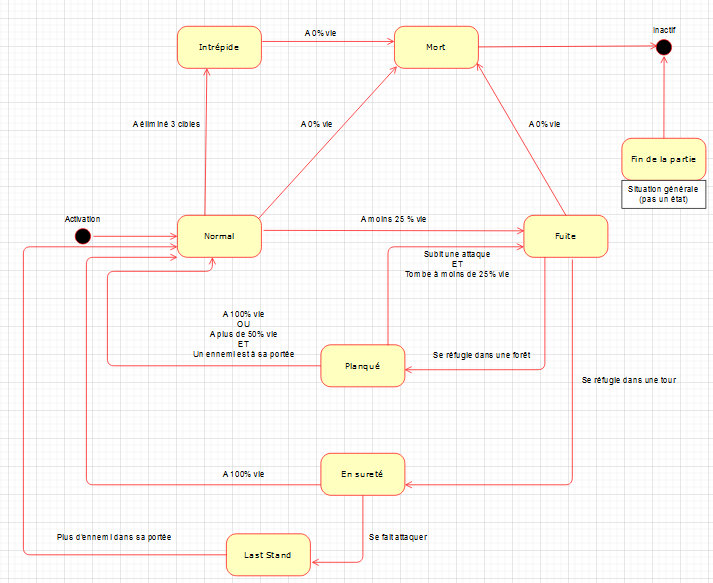
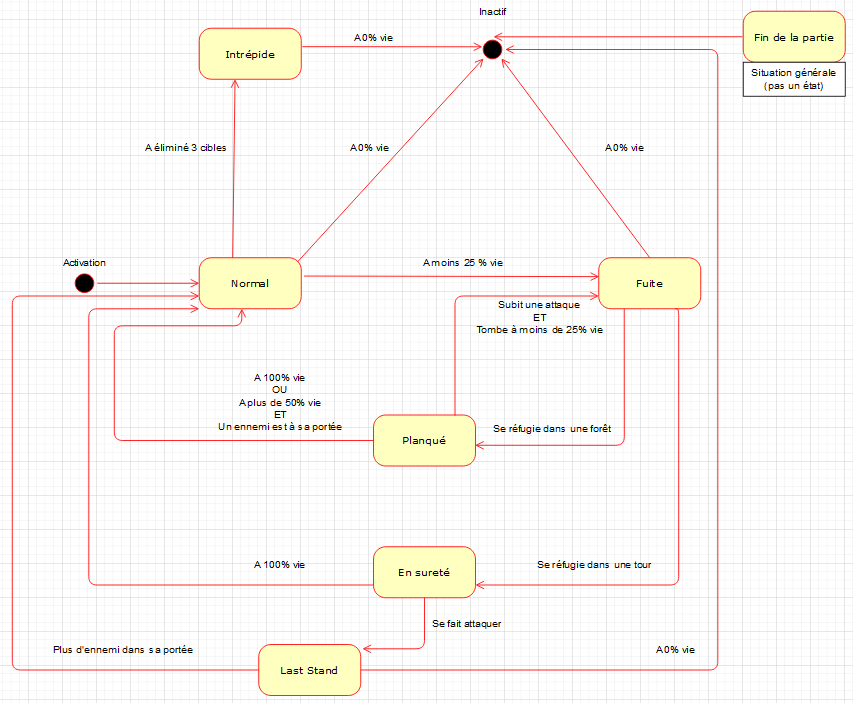
Refactor States

diff --git a/TP2/Assets/Scripts/WizardStates/NormalState.cs b/TP2/Assets/Scripts/WizardStates/NormalState.cs
@@ -11,7 +11,7 @@ public class NormalState : WizardState
 
     private const float ATTACK_SPEED = 0.5f; // 2 tirs / seconde
     private const float MOVEMENT_SPEED = 3.0f;
-    private const float REGENERATION_PER_SECONDS = 1.0f;
+    private const int REGENERATION_PER_SECONDS = 1;
     private const float MIN_TARGET_RADIUS = 1.5f;
     private const float MAX_TARGET_RADIUS = 3.0f;
     private const float MIN_DAMAGE = 3.0f;
@@ -20,7 +20,7 @@ public class NormalState : WizardState
     private const int INTREPID_STATE_KILL_THRESHOLD = 3;
     private const float ESCAPE_STATE_HEALTH_THRESHOLD = 0.25f; // 25% de vie
 
-    private void Awake()
+    private new void Awake()
     {
         base.Awake();
         SetSpeed(MOVEMENT_SPEED);
@@ -67,23 +67,28 @@ public class NormalState : WizardState
         }
     }
 
+    /// <summary>
+    /// Changements possbiles : Intrepide, Fuite, Mort
+    /// </summary>
     public override void ManageStateChange()
     {
         if (wizardManager.GetNumberbOfKills() >= INTREPID_STATE_KILL_THRESHOLD)
         {
             wizardManager.ChangeWizardState(WizardManager.WizardStateToSwitch.INTREPID);
+        
         } 
-        else if (wizardManager.GetCurrentHealthPoints() / wizardManager.GetMaxHealthPoints() <= ESCAPE_STATE_HEALTH_THRESHOLD)
+        else if (((float)wizardManager.GetCurrentHealthPoints() / (float)wizardManager.GetMaxHealthPoints()) <= ESCAPE_STATE_HEALTH_THRESHOLD)
         {
             wizardManager.ChangeWizardState(WizardManager.WizardStateToSwitch.ESCAPE);
+        
         } 
-        else if(wizardManager.GetCurrentHealthPoints() <= 0)
+        else if(wizardManager.GetLifePercentage() <= 0.0f)
         {
-            wizardManager.ChangeWizardState(WizardManager.WizardStateToSwitch.DEAD);
+            wizardManager.ChangeWizardState(WizardManager.WizardStateToSwitch.INACTIVE);
         }
     }
 
-    private void OnTriggerEnter2D(Collider2D collision)
+    private new void OnTriggerEnter2D(Collider2D collision)
     {
         base.OnTriggerEnter2D(collision);
         if(collision.gameObject.CompareTag(wizardManager.GetOpponentWizardTag()) || collision.gameObject.CompareTag(wizardManager.GetOpponentTowerTag()))
@@ -93,7 +98,7 @@ public class NormalState : WizardState
         }
     }
 
-    private void OnTriggerExit2D(Collider2D collision)
+    private new void OnTriggerExit2D(Collider2D collision)
     {
         base.OnTriggerExit2D(collision);
         if (collision.gameObject.CompareTag(wizardManager.GetOpponentWizardTag()))

diff --git a/TP2/Assets/Scripts/WizardStates/HiddenState.cs b/TP2/Assets/Scripts/WizardStates/HiddenState.cs
@@ -4,28 +4,16 @@ using UnityEngine;
 
 public class HiddenState : WizardState
 {
-    private const float REGENERATION_PER_SECONDS = 3.0f;
-
+    private const int REGENERATION_PER_SECONDS = 3;
     private const float NORMAL_STATE_LIFE_THRESHOLD = 0.5f;
     private const float ESCAPE_STATE_LIFE_THRESHOLD = 0.25f;
     
     bool gotAttacked = false;
 
-    private void Awake()
+    private new void Awake()
     {
         base.Awake();
         SetRegenerationPerSeconds(REGENERATION_PER_SECONDS);
-    }
-    // Start is called before the first frame update
-    void Start()
-    {
-        
-    }
-
-    // Update is called once per frame
-    void Update()
-    {
-        
     }
 
     public override void Shoot()
@@ -36,6 +24,9 @@ public class HiddenState : WizardState
     {
     }
 
+    /// <summary>
+    /// Changement possibles : Normal, Fuite
+    /// </summary>
     public override void ManageStateChange()
     {
         float wizardLifePercentage = wizardManager.GetLifePercentage();
@@ -47,14 +38,11 @@ public class HiddenState : WizardState
         {
             wizardManager.ChangeWizardState(WizardManager.WizardStateToSwitch.ESCAPE);
         }
-        else if (wizardManager.GetLifePercentage() <= 0.0f)
-        {
-            wizardManager.ChangeWizardState(WizardManager.WizardStateToSwitch.DEAD);
-        }
     }
 
-    private void OnCollisionEnter2D(Collision2D collision)
+    private new void OnTriggerEnter2D(Collider2D collision)
     {
+        base.OnTriggerEnter2D(collision);
         if (collision.gameObject.CompareTag(wizardManager.GetOpponentProjectileTag()))
         {
         }

diff --git a/TP2/Assets/Scripts/WizardStates/EscapeState.cs b/TP2/Assets/Scripts/WizardStates/EscapeState.cs
@@ -6,7 +6,7 @@ public class EscapeState : WizardState
 {
     private const float MOVEMENT_SPEED = 6.0f;
 
-    private const float REGENERATION_PER_SECONDS = 1.0f;
+    private const int REGENERATION_PER_SECONDS = 1;
 
     private bool inTower = false;
     private bool inForest = false;
@@ -17,13 +17,7 @@ public class EscapeState : WizardState
         SetSpeed(MOVEMENT_SPEED);
         SetRegenerationPerSeconds(REGENERATION_PER_SECONDS);
     }
-    // Start is called before the first frame update
-    void Start()
-    {
-        
-    }
 
-    // Update is called once per frame
     void Update()
     {
         UpdateCurrentTarget();
@@ -55,7 +49,7 @@ public class EscapeState : WizardState
         }
         else if (wizardManager.GetLifePercentage() <= 0.0f)
         {
-            wizardManager.ChangeWizardState(WizardManager.WizardStateToSwitch.DEAD);
+            wizardManager.ChangeWizardState(WizardManager.WizardStateToSwitch.INACTIVE);
         }
     }
 
@@ -71,7 +65,7 @@ public class EscapeState : WizardState
         }
     }
 
-    private void OnTriggerEnter2D(Collider2D collision)
+    private new void OnTriggerEnter2D(Collider2D collision)
     {
         if(collision.gameObject.CompareTag(Tags.FOREST))
         {
@@ -83,7 +77,7 @@ public class EscapeState : WizardState
         }
     }
 
-    private void OnTriggerExit2D(Collider2D collision)
+    private new void OnTriggerExit2D(Collider2D collision)
     {
         if (collision.gameObject.CompareTag(Tags.FOREST))
         {

diff --git a/TP2/Assets/Scripts/WizardStates/WizardState.cs b/TP2/Assets/Scripts/WizardStates/WizardState.cs
@@ -7,20 +7,33 @@ public abstract class WizardState : MonoBehaviour
     protected WizardManager wizardManager;
 
     protected float speed = 0;
-    protected float regenPerSeconds = 0;
+    protected int regenPerSeconds = 0;
     protected int enemyAroundCount = 0;
     protected float targetRadius = 1.5f;
+
+    private float regenTickRate = 1f;
+    private float timer = 0;
     
     protected void Awake()
     {
         wizardManager = GetComponent<WizardManager>();
     }
 
-    void Update() {}
+    void Update() 
+    {
+        if(timer >= regenTickRate)
+        {
+            timer = 0;
+            wizardManager.RegenHP(regenPerSeconds);
+        }
+
+        timer += Time.deltaTime;
+    }
 
     public abstract void Shoot();
     public abstract void Move();
     public abstract void ManageStateChange();
+
     public void MoveTo(GameObject target)
     {
         transform.position = Vector3.MoveTowards(transform.position, target.transform.position, speed * Time.deltaTime);
@@ -31,7 +44,7 @@ public abstract class WizardState : MonoBehaviour
         transform.up = target.transform.position - transform.position;
     }
 
-    public void SetRegenerationPerSeconds(float regen)
+    public void SetRegenerationPerSeconds(int regen)
     {
         regenPerSeconds = regen;
     }

diff --git a/TP2/Assets/Scripts/WizardStates/LastStandState.cs b/TP2/Assets/Scripts/WizardStates/LastStandState.cs
@@ -4,9 +4,9 @@ using UnityEngine;
 
 public class LastStandState : WizardState
 {
-    private const float REGENERATION_PER_SECONDS = 2.0f;
+    private const int REGENERATION_PER_SECONDS = 2;
 
-    private void Awake()
+    private new void Awake()
     {
         base.Awake();
         SetRegenerationPerSeconds(REGENERATION_PER_SECONDS);
@@ -40,7 +40,7 @@ public class LastStandState : WizardState
         }
         else if (wizardManager.GetLifePercentage() <= 0.0f)
         {
-            wizardManager.ChangeWizardState(WizardManager.WizardStateToSwitch.DEAD);
+            wizardManager.ChangeWizardState(WizardManager.WizardStateToSwitch.INACTIVE);
         }
     }
 }

diff --git a/TP2/Assets/Scripts/WizardStates/SafeState.cs b/TP2/Assets/Scripts/WizardStates/SafeState.cs
@@ -4,7 +4,8 @@ using UnityEngine;
 
 public class SafeState : WizardState
 {
-    private const float REGENERATION_PER_SECONDS = 2.0f;
+    private const int REGENERATION_PER_SECONDS = 2;
+
     private new void Awake()
     {
         base.Awake();
@@ -12,14 +13,10 @@ public class SafeState : WizardState
     }
 
     // Not shooting 
-    public override void Shoot()
-    {
-    }
+    public override void Shoot(){}
 
     // 
-    public override void Move()
-    {
-    }
+    public override void Move(){}
 
     public override void ManageStateChange()
     {
